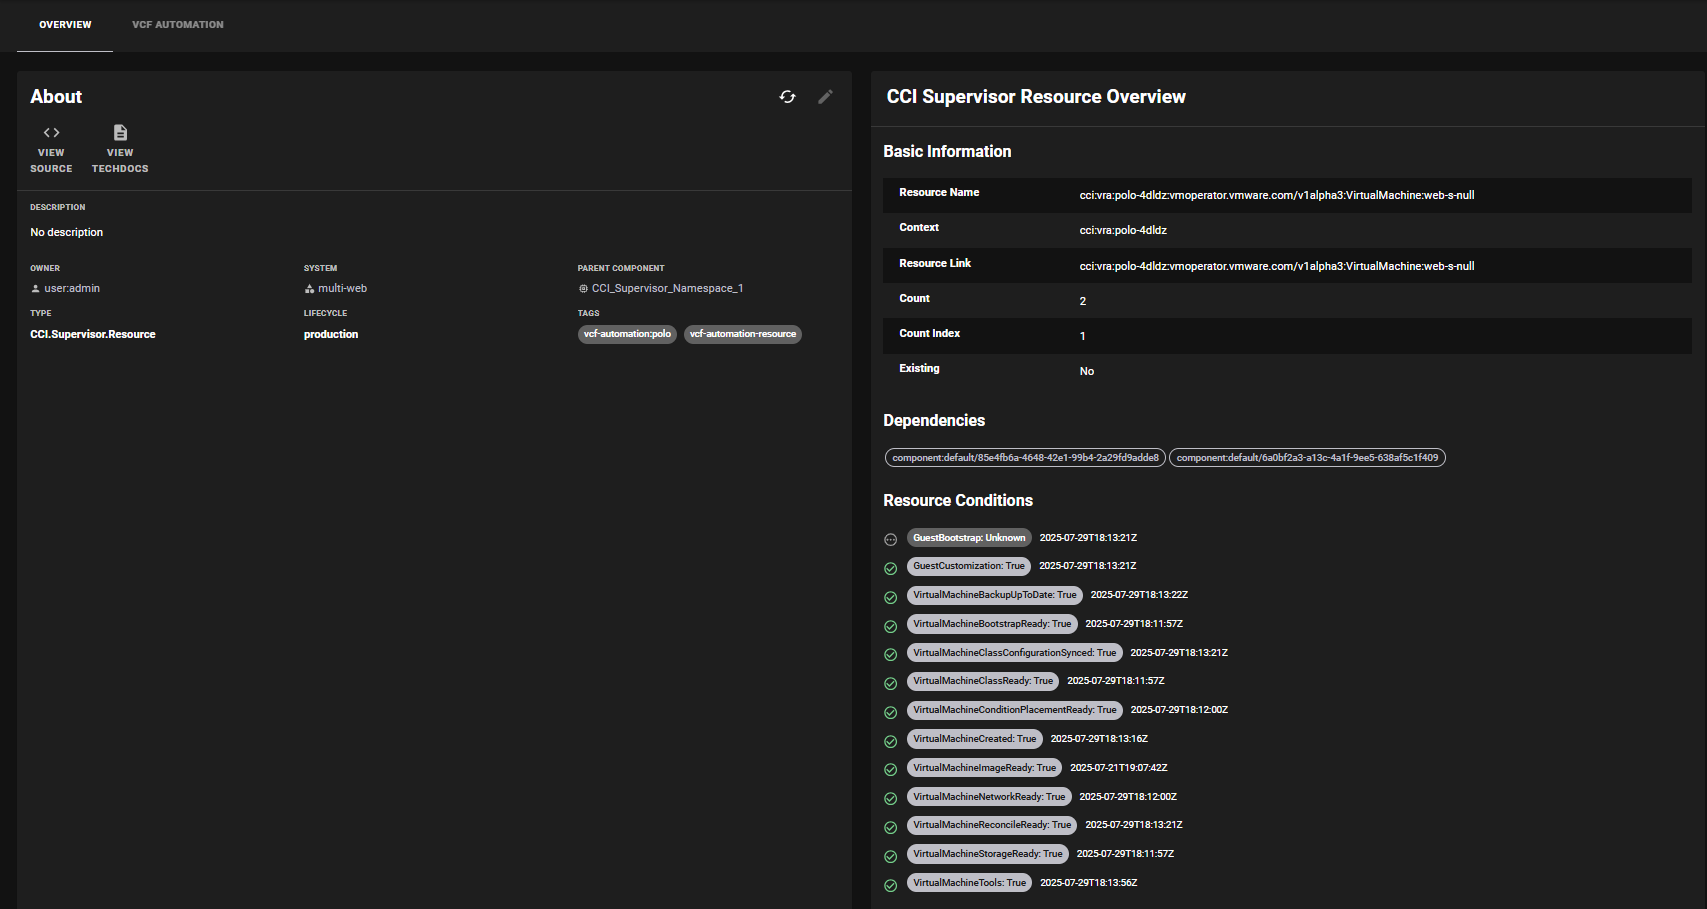
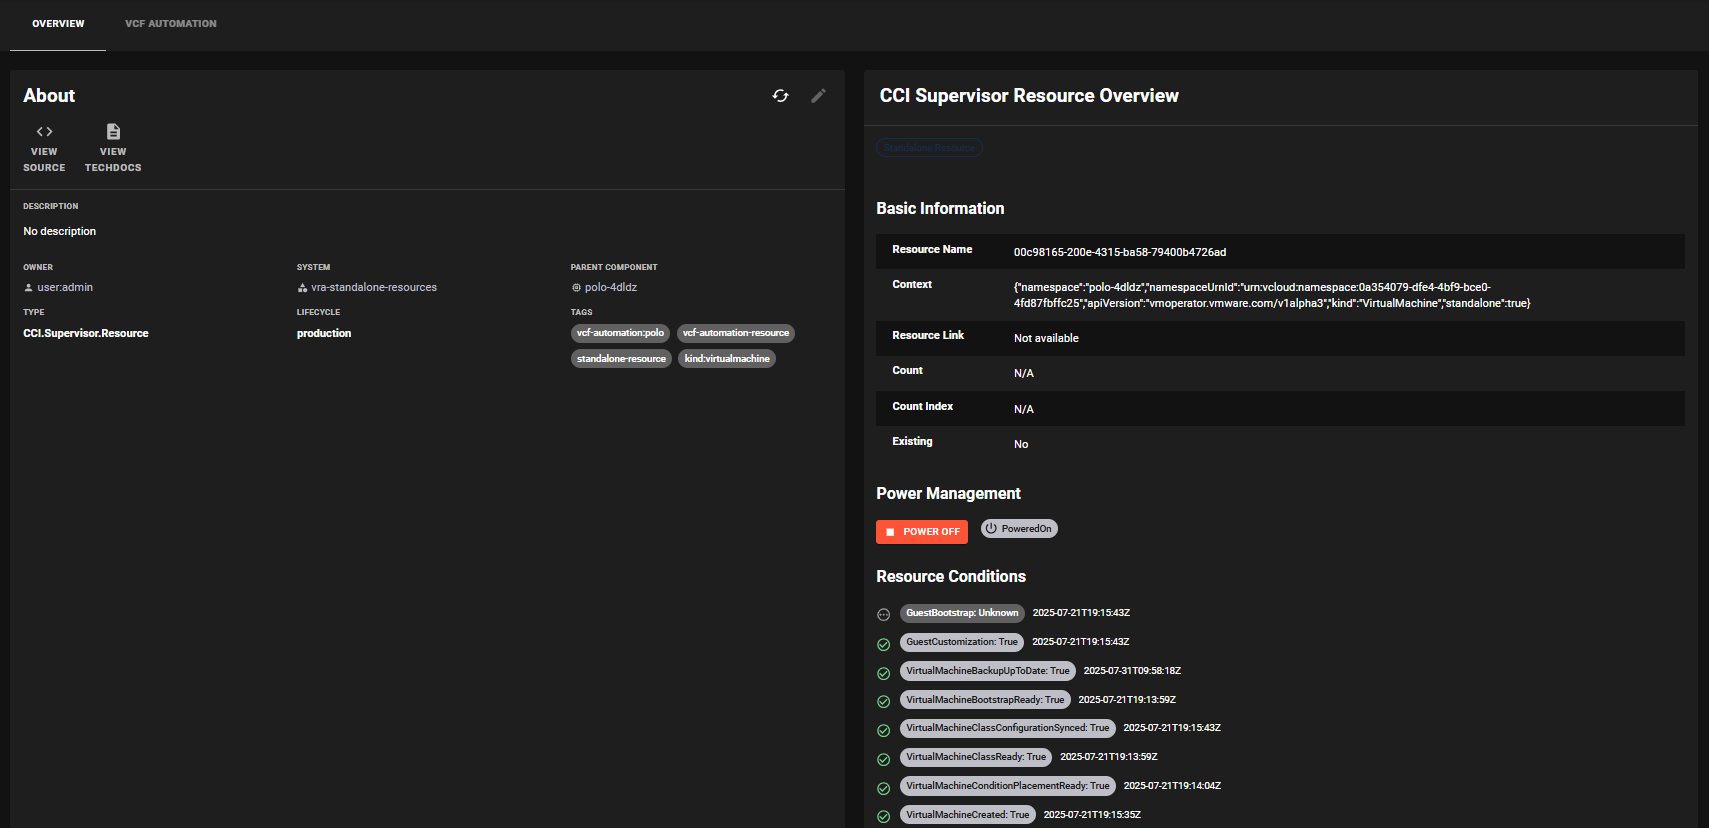
Update docs for VCFA 9.x Standalone resource enhanced support and power management

diff --git a/site/docs/plugins/vcf-automation/frontend/install.md b/site/docs/plugins/vcf-automation/frontend/install.md
@@ -256,12 +256,47 @@ The VCF Automation frontend plugin now provides the following components:
 ### CCI Components (New)
 - `VCFAutomationCCINamespaceOverview` & `VCFAutomationCCINamespaceDetails` - For CCI Supervisor Namespaces
 - `VCFAutomationCCIResourceOverview` & `VCFAutomationCCIResourceDetails` - For CCI Supervisor Resources
+- `VCFAutomationVMPowerManagement` - For VM power management (automatically included in CCI resource overview for VMs)
 
 ### Entity Type Mappings
 - **CCI.Supervisor.Namespace** → Uses CCI Namespace components
 - **CCI.Supervisor.Resource** → Uses CCI Resource components  
 - **Cloud.vSphere.Machine** → Uses vSphere VM components
 - **Other types** → Uses generic resource components
+
+## VM Power Management
+
+For VirtualMachine components in all-apps organizations, the plugin provides power management capabilities:
+
+### Features
+
+- **Power State Display**: Shows current VM power state (PoweredOn/PoweredOff)
+- **Power Actions**: Power On/Off buttons based on current state  
+- **Permission Control**: Requires `vcf-automation.vm-power-management.run` permission (defined in vcf-automation-common)
+- **Confirmation Dialogs**: Confirms actions before execution
+- **Support for Both VM Types**:
+  - **Deployment-managed VMs**: Uses deployment API to check action validity and execute
+  - **Standalone VMs**: Uses Kubernetes API to check status and update power state
+
+### Permissions
+
+Add the following permission to your permission policy:
+
+```typescript
+import { vmPowerManagementPermission } from '@terasky/backstage-plugin-vcf-automation-common';
+
+// In your permission policy:
+{
+  permission: vmPowerManagementPermission,
+  result: AuthorizeResult.ALLOW, // or implement conditional logic as needed
+}
+```
+
+The permission is defined in the `vcf-automation-common` plugin and automatically registered with the permission system.
+
+### Usage
+
+The power management component is automatically included in `VCFAutomationCCIResourceOverview` for VirtualMachine entities in all-apps organizations. No additional configuration is required.
 
 ## What's Next?
 

diff --git a/site/docs/plugins/vcf-automation/backend/configure.md b/site/docs/plugins/vcf-automation/backend/configure.md
@@ -57,6 +57,12 @@ The plugin exposes the following endpoints:
 - `GET /api/vcf-automation/supervisor-resources/:id` - Get specific supervisor resource details
 - `GET /api/vcf-automation/supervisor-namespaces` - List all supervisor namespaces
 - `GET /api/vcf-automation/supervisor-namespaces/:id` - Get specific supervisor namespace details
+- `GET /api/vcf-automation/resources/:resourceId/power-actions/:action` - Check VM power action validity (deployment-managed)
+- `POST /api/vcf-automation/resources/:resourceId/power-actions/:action` - Execute VM power action (deployment-managed)
+- `GET /api/vcf-automation/standalone-vms/:namespaceUrnId/:namespaceName/:vmName/status` - Get standalone VM status
+- `PUT /api/vcf-automation/standalone-vms/:namespaceUrnId/:namespaceName/:vmName/power-state` - Update standalone VM power state
+
+**Note**: VM power management requires the `vcf-automation.vm-power-management.run` permission, which is defined in the `vcf-automation-common` plugin.
 
 ## Links
 

diff --git a/site/docs/plugins/vcf-automation/ingestor/configure.md b/site/docs/plugins/vcf-automation/ingestor/configure.md
@@ -139,6 +139,7 @@ For **all-apps** organization types, the ingestor provides enhanced support for 
   - **Cluster**: Links to TKG service view
   - **Other types**: No external link (still ingested)
 - **Smart Tagging**: All CCI resources from all-apps organizations get tagged with `kind:<RESOURCE_KIND>` (e.g., `kind:virtualmachine`, `kind:service`, `kind:cluster`)
+- **Remote Console Links**: VirtualMachine components get remote console links with format `/automation/#/machines/remote-console/<PROJECT>/<NAMESPACE>/<VM>`
 - Annotations include:
   - `terasky.backstage.io/vcf-automation-cci-resource-manifest` (JSON)
   - `terasky.backstage.io/vcf-automation-cci-resource-object` (JSON)
